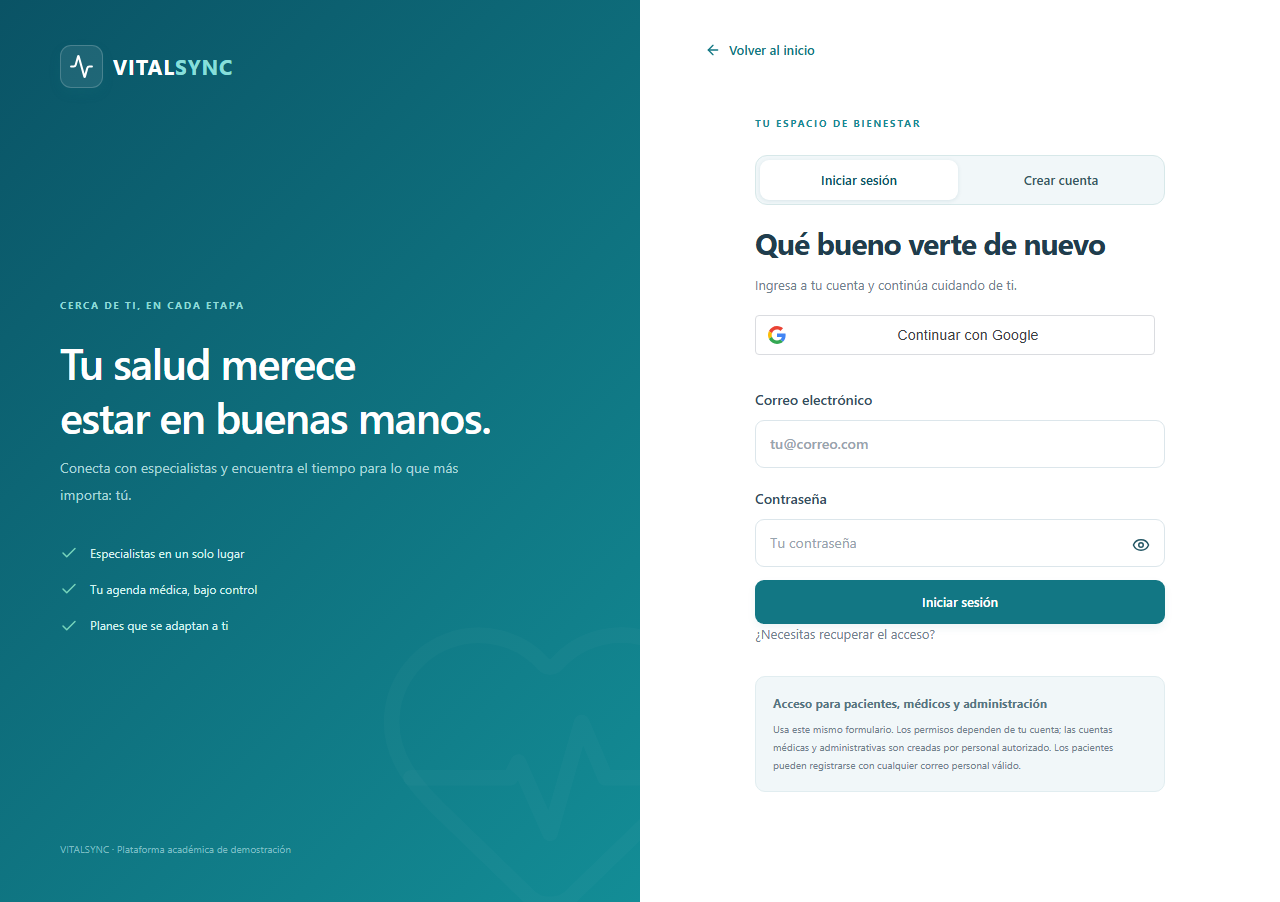
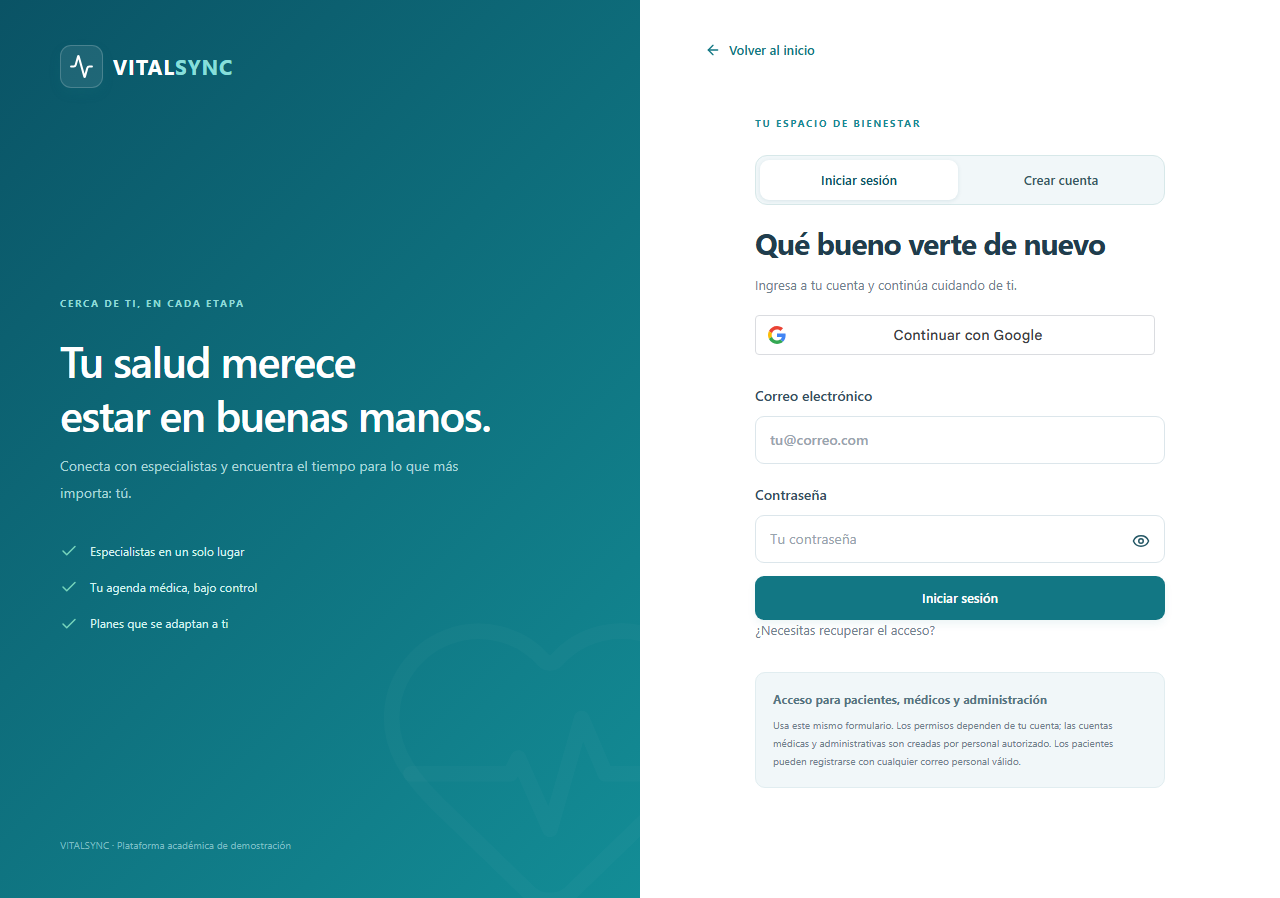
test: confirm authorized Google button on desktop and mobile

diff --git a/frontend/e2e/google-official-button.spec.ts b/frontend/e2e/google-official-button.spec.ts
@@ -7,7 +7,13 @@ test("Google official GIS button loads with the configured client", async ({ pag
   await page.goto("/login");
   // GIS can render its accessible button in the parent document rather
   // than inside its internal iframe. Assert the official SDK output.
-  await expect(page.locator(".google-button").getByRole("button", { name: /continuar con google/i }).first()).toBeVisible({ timeout: 30000 });
+  const parentButton = page.locator(".google-button").getByRole("button", { name: /google/i }).first();
+  const iframe = page.locator('iframe[src^="https://accounts.google.com/gsi/button"]');
+  await expect.poll(async () => {
+    if (await parentButton.isVisible()) return true;
+    if (await iframe.count()) return page.frameLocator('iframe[src^="https://accounts.google.com/gsi/button"]').getByRole("button", { name: /google/i }).isVisible().catch(() => false);
+    return false;
+  }, { timeout: 30000 }).toBe(true);
   expect(await page.evaluate(() => !!window.google?.accounts.id)).toBe(true);
   await expect(page.locator('script[src="https://accounts.google.com/gsi/client"]')).toHaveCount(1);
   await expect(page.getByRole("button", { name: "Iniciar sesión", exact: true })).toBeVisible();

diff --git a/docs/google-auth-v1.1.md b/docs/google-auth-v1.1.md
@@ -79,7 +79,7 @@ LiveKit conserva los mismos endpoints, ventanas horarias, permisos por rol y cic
 - Alembic: única cabeza `20261123_google_identity`, aplicada a la base principal.
 - Conservación de datos: los contenidos completos de `users`, `patients`, `appointments` y `payments` producen los mismos hashes agregados antes/después de migrar: **61 usuarios, 55 pacientes, 63 citas y 147 pagos**. No se reemplazaron contraseñas ni registros existentes.
[1 lines of base64/hex data omitted]
-- El Client ID proporcionado por el titular se configuró en ambas variables de `.env`, que permanece ignorado por Git. El SDK oficial y el botón cargan; la prueba real detectó **“The given origin is not allowed for the given client ID”** en escritorio y móvil. La consola Google Cloud muestra únicamente `http://localhost:5188` en el formulario, y el titular confirma haberlo guardado. Se solicitó agregar también `http://localhost`, como indica la guía oficial, y esperar propagación. La autenticación real permanece pendiente de esa autorización y de la selección manual de cuenta.
+- El Client ID proporcionado por el titular se configuró en ambas variables de `.env`, que permanece ignorado por Git. Tras guardar `http://localhost` y `http://localhost:5188` en Google Cloud, la prueba del **SDK oficial pasó en escritorio y móvil (2 aprobadas)**: botón visible, SDK cargado, sin rechazo de origen ni desbordamiento horizontal. La selección y autorización de una cuenta Google real y la emisión posterior de su sesión local siguen pendientes de validación manual; no se ejecutaron por el usuario durante esta comprobación.
 
 Para repetir únicamente la prueba del botón oficial (no autentica al usuario):
 
